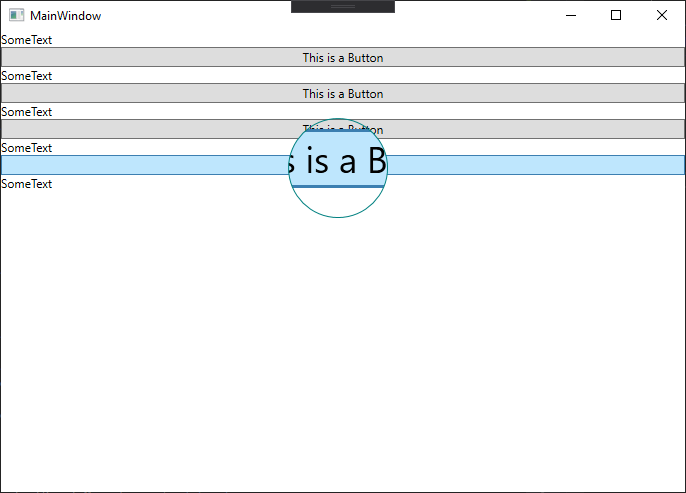
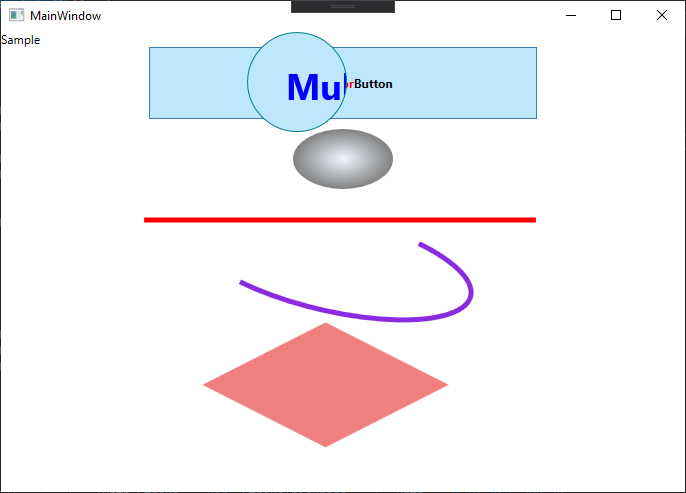
update readme and sample

diff --git a/src/TestMagnifier/MainWindow.xaml b/src/TestMagnifier/MainWindow.xaml
@@ -8,15 +8,45 @@
         Title="MainWindow" Height="500" Width="700">
     <Grid>
         <StackPanel Background="Transparent" Name="ContentPanel">
-            <TextBlock Text="SomeText"/>
-            <Button Content="This is a Button"/>
-            <TextBlock Text="SomeText"/>
-            <Button Content="This is a Button"/>
-            <TextBlock Text="SomeText"/>
-            <Button Content="This is a Button"/>
-            <TextBlock Text="SomeText"/>
-            <Button Content="This is a Button"/>
-            <TextBlock Text="SomeText"/>
+            <TextBlock Text="Sample"/>
+            <Button Width="388" Height="72">
+                <Button.FontWeight>
+                    <FontWeight>Bold</FontWeight>
+                </Button.FontWeight>
+                <WrapPanel>
+                    <TextBlock Foreground="Blue"><Run Text="Multi"/></TextBlock>
+                    <TextBlock Foreground="Red"><Run Text="Color"/></TextBlock>
+                    <TextBlock><Run Text="Button"/></TextBlock>
+                </WrapPanel>
+            </Button>
+
+            <Ellipse Width = "100" Height = "60" Name = "sample" Margin = "10">
+                <Ellipse.Fill>
+                    <RadialGradientBrush>
+                        <GradientStop Offset = "0" Color = "AliceBlue"/>
+                        <GradientStop Offset = "1" Color = "Gray"/>
+                        <GradientStop Offset = "2" Color = "Red"/>
+                    </RadialGradientBrush>
+                </Ellipse.Fill>
+            </Ellipse>
+
+            <Path Stroke = "Red" StrokeThickness = "5" Data = "M 10,70 L 200,70"
+                  Height = "42.085" Stretch = "Fill" Margin = "140.598,0,146.581,0" />
+            <Path Stroke = "BlueViolet" StrokeThickness = "5" Data = "M 20,100 A 100,56 42 1 0 200,10"
+                  Height = "81.316" Stretch = "Fill" Margin = "236.325,0,211.396,0" />
+
+            <Path Fill = "LightCoral" Margin = "201.424,0,236.325,0"
+                  Stretch = "Fill" Height = "124.929">
+                <Path.Data>
+                    <PathGeometry>
+                        <PathFigure StartPoint = "50,0" IsClosed = "True">
+                            <LineSegment Point = "100,50"/>
+                            <LineSegment Point = "50,100"/>
+                            <LineSegment Point = "0,50"/>
+                        </PathFigure>
+                    </PathGeometry>
+                </Path.Data>
+            </Path>
         </StackPanel>
         <local:Magnifier ContentPanel="{Binding ElementName=ContentPanel}"></local:Magnifier>
     </Grid>

diff --git a/README.md b/README.md
@@ -1,2 +1,4 @@
 # WpfMagnifier
 Magnifier control sample in WPF
+
+![sample](https://github.com/bezzad/WpfMagnifier/raw/master/sample.png)
